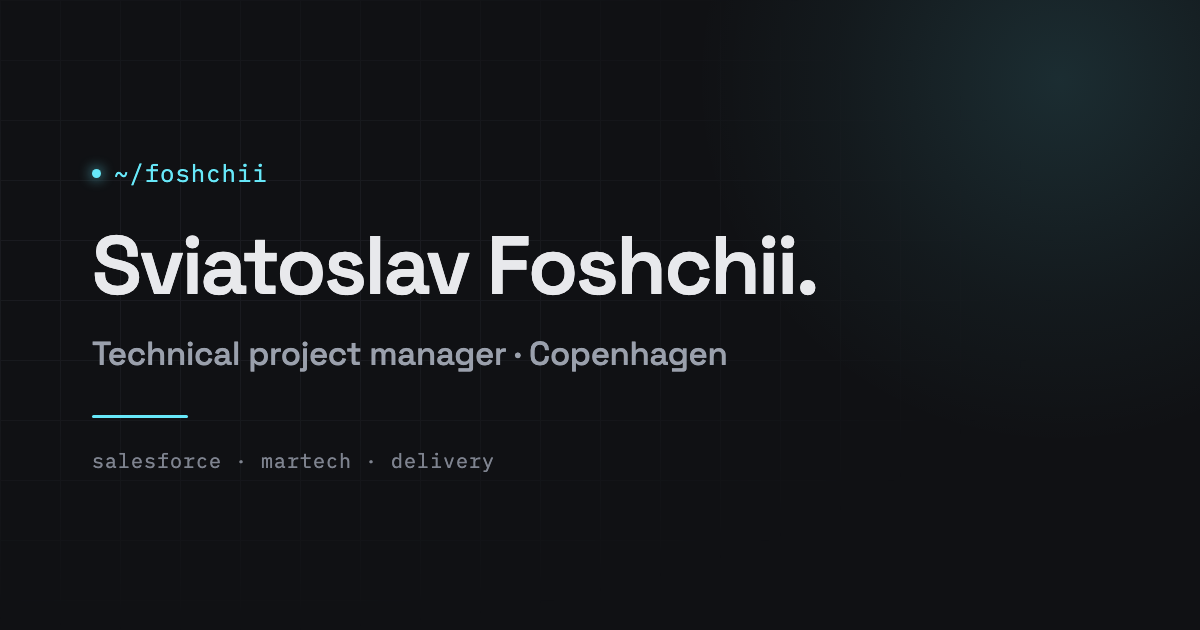
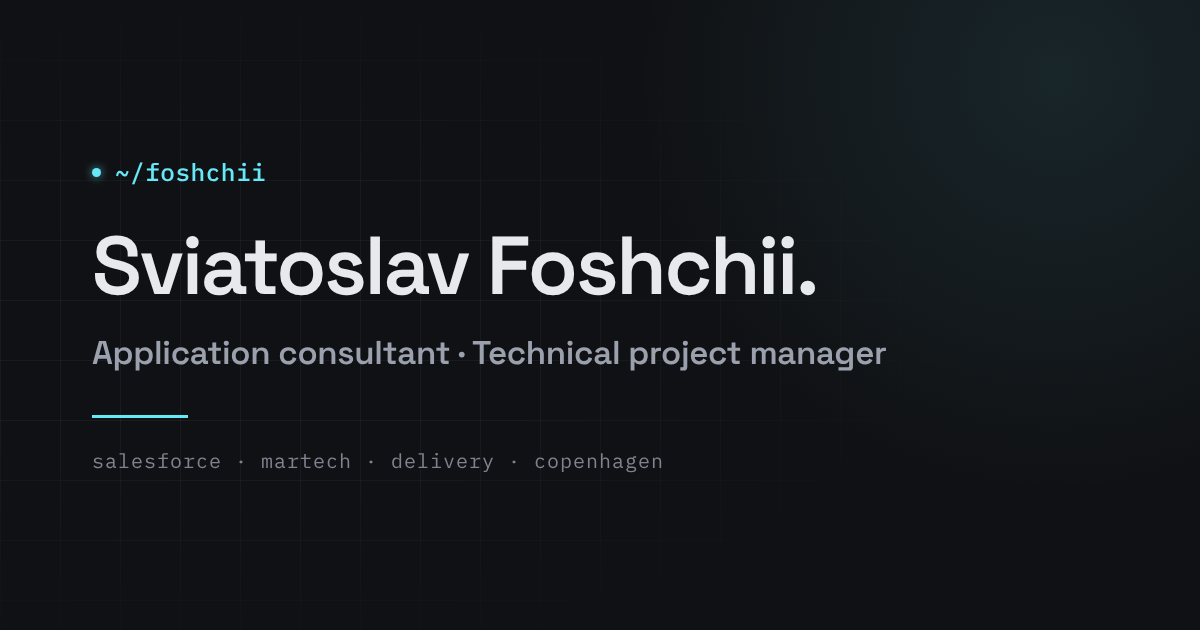
Describe Sviatoslav as application consultant and technical project manager
He moved into an application consultant role at MAP in June 2026 (already on
the experience page), but the home page title, descriptions, structured data,
llms.txt, every page's og:image:alt and the link-preview image itself still
said technical project manager only. They now carry both titles.

The home page line drops the migration tagline, which described the old job,
for a plain statement of the two roles.

The preview image is re-rendered to match the old one (same fonts, grid,
glow and positions); Copenhagen moves to the tag line, since both titles
plus the city don't fit on one line.

Claude-Session: https://claude.ai/code/session_01QYLZz5QcPj3BNn15SFWums

diff --git a/index.html b/index.html
@@ -3,20 +3,20 @@
 <head>
 <meta charset="utf-8">
 <meta name="viewport" content="width=device-width, initial-scale=1">
-<meta name="description" content="Sviatoslav Foshchii — technical project manager in Copenhagen, working in Salesforce and martech delivery.">
-<title>Sviatoslav Foshchii — Technical Project Manager</title>
+<meta name="description" content="Sviatoslav Foshchii — application consultant and technical project manager in Copenhagen, working in Salesforce and martech delivery.">
+<title>Sviatoslav Foshchii — Application Consultant &amp; Technical Project Manager</title>
 <link rel="icon" href="assets/favicon.svg">
 <link rel="canonical" href="https://foshchii.com/">
 <link rel="alternate" type="application/rss+xml" title="Writing — Sviatoslav Foshchii" href="feed.xml">
 <meta property="og:url" content="https://foshchii.com/">
 <meta property="og:type" content="website">
 <meta property="og:site_name" content="Sviatoslav Foshchii">
-<meta property="og:title" content="Sviatoslav Foshchii — Technical Project Manager">
-<meta property="og:description" content="Sviatoslav Foshchii — technical project manager in Copenhagen, working in Salesforce and martech delivery.">
+<meta property="og:title" content="Sviatoslav Foshchii — Application Consultant &amp; Technical Project Manager">
+<meta property="og:description" content="Sviatoslav Foshchii — application consultant and technical project manager in Copenhagen, working in Salesforce and martech delivery.">
 <meta property="og:image" content="https://foshchii.com/assets/og-image.png">
 <meta property="og:image:width" content="1200">
 <meta property="og:image:height" content="630">
-<meta property="og:image:alt" content="Sviatoslav Foshchii — technical project manager, Copenhagen">
+<meta property="og:image:alt" content="Sviatoslav Foshchii — application consultant and technical project manager, Copenhagen">
 <meta name="twitter:card" content="summary_large_image">
 <style>html,body{background:#101114}@view-transition{navigation:auto}::view-transition-old(root),::view-transition-new(root){animation-duration:.12s}@media (prefers-reduced-motion:reduce){::view-transition-old(root),::view-transition-new(root){animation:none}}</style>
 <script>try{if(sessionStorage.getItem('om-warp-in')){var c=document.createElement('div');c.id='om-warp-cover';c.style.cssText='position:fixed;inset:0;z-index:2147483646;background:#101114;pointer-events:none';(document.body||document.documentElement).appendChild(c);}}catch(e){}</script>
@@ -35,7 +35,10 @@
   "familyName": "Foshchii",
   "url": "https://foshchii.com/",
   "image": "https://foshchii.com/assets/og-image.png",
-  "jobTitle": "Technical Project Manager",
+  "jobTitle": [
+    "Application Consultant",
+    "Technical Project Manager"
+  ],
   "email": "mailto:sviatoslav@foshchii.com",
   "address": {
     "@type": "PostalAddress",
@@ -121,7 +124,7 @@
     <div style="position:relative; max-width:560px">
       <div style="font:400 13px 'IBM Plex Mono',monospace; letter-spacing:0.03em; color:#7E838F; margin-bottom:32px; animation:om-rise .6s ease-out both">// copenhagen, denmark</div>
       <h1 style="margin:0; font:500 52px/1.18 'Space Grotesk',sans-serif; letter-spacing:-0.025em; animation:om-rise .6s ease-out .08s both">Sviatoslav Foshchii.<span style="color:#67E8F9; animation:om-blink 1.1s steps(1) infinite">_</span></h1>
-      <p style="margin:22px 0 0; font:400 17.5px/1.6 'Instrument Sans',sans-serif; color:#9AA0AC; animation:om-rise .6s ease-out .12s both">Technical project manager working in Salesforce Marketing Cloud, Adobe Campaign and martech delivery — running platform migrations without breaking the marketing that runs on them.</p>
+      <p style="margin:22px 0 0; font:400 17.5px/1.6 'Instrument Sans',sans-serif; color:#9AA0AC; animation:om-rise .6s ease-out .12s both">Application consultant and technical project manager, working in Salesforce and martech delivery.</p>
       <div style="margin-top:30px; display:flex; gap:24px; flex-wrap:wrap; font:400 13px 'IBM Plex Mono',monospace; letter-spacing:0.03em; animation:om-rise .6s ease-out .16s both">
         <a data-warp="streaks" href="about.html" style="color:#9AA0AC; text-decoration:none; cursor:pointer; border-bottom:1px solid rgba(154,160,172,0.28); padding-bottom:2px; transition:all .25s" style-hover="color:#67E8F9; border-color:rgba(103,232,249,0.5)">the story</a>
         <a data-warp="zoom" href="experience.html" style="color:#9AA0AC; text-decoration:none; cursor:pointer; border-bottom:1px solid rgba(154,160,172,0.28); padding-bottom:2px; transition:all .25s" style-hover="color:#67E8F9; border-color:rgba(103,232,249,0.5)">my work</a>

diff --git a/about.html b/about.html
@@ -16,7 +16,7 @@
 <meta property="og:image" content="https://foshchii.com/assets/og-image.png">
 <meta property="og:image:width" content="1200">
 <meta property="og:image:height" content="630">
-<meta property="og:image:alt" content="Sviatoslav Foshchii — technical project manager, Copenhagen">
+<meta property="og:image:alt" content="Sviatoslav Foshchii — application consultant and technical project manager, Copenhagen">
 <meta name="twitter:card" content="summary_large_image">
 <style>html,body{background:#101114}@view-transition{navigation:auto}::view-transition-old(root),::view-transition-new(root){animation-duration:.12s}@media (prefers-reduced-motion:reduce){::view-transition-old(root),::view-transition-new(root){animation:none}}</style>
 <script>try{if(sessionStorage.getItem('om-warp-in')){var c=document.createElement('div');c.id='om-warp-cover';c.style.cssText='position:fixed;inset:0;z-index:2147483646;background:#101114;pointer-events:none';(document.body||document.documentElement).appendChild(c);}}catch(e){}</script>

diff --git a/contact.html b/contact.html
@@ -16,7 +16,7 @@
 <meta property="og:image" content="https://foshchii.com/assets/og-image.png">
 <meta property="og:image:width" content="1200">
 <meta property="og:image:height" content="630">
-<meta property="og:image:alt" content="Sviatoslav Foshchii — technical project manager, Copenhagen">
+<meta property="og:image:alt" content="Sviatoslav Foshchii — application consultant and technical project manager, Copenhagen">
 <meta name="twitter:card" content="summary_large_image">
 <style>html,body{background:#101114}@view-transition{navigation:auto}::view-transition-old(root),::view-transition-new(root){animation-duration:.12s}@media (prefers-reduced-motion:reduce){::view-transition-old(root),::view-transition-new(root){animation:none}}</style>
 <script>try{if(sessionStorage.getItem('om-warp-in')){var c=document.createElement('div');c.id='om-warp-cover';c.style.cssText='position:fixed;inset:0;z-index:2147483646;background:#101114;pointer-events:none';(document.body||document.documentElement).appendChild(c);}}catch(e){}</script>

diff --git a/education.html b/education.html
@@ -16,7 +16,7 @@
 <meta property="og:image" content="https://foshchii.com/assets/og-image.png">
 <meta property="og:image:width" content="1200">
 <meta property="og:image:height" content="630">
-<meta property="og:image:alt" content="Sviatoslav Foshchii — technical project manager, Copenhagen">
+<meta property="og:image:alt" content="Sviatoslav Foshchii — application consultant and technical project manager, Copenhagen">
 <meta name="twitter:card" content="summary_large_image">
 <style>html,body{background:#101114}@view-transition{navigation:auto}::view-transition-old(root),::view-transition-new(root){animation-duration:.12s}@media (prefers-reduced-motion:reduce){::view-transition-old(root),::view-transition-new(root){animation:none}}</style>
 <script>try{if(sessionStorage.getItem('om-warp-in')){var c=document.createElement('div');c.id='om-warp-cover';c.style.cssText='position:fixed;inset:0;z-index:2147483646;background:#101114;pointer-events:none';(document.body||document.documentElement).appendChild(c);}}catch(e){}</script>

diff --git a/experience.html b/experience.html
@@ -16,7 +16,7 @@
 <meta property="og:image" content="https://foshchii.com/assets/og-image.png">
 <meta property="og:image:width" content="1200">
 <meta property="og:image:height" content="630">
-<meta property="og:image:alt" content="Sviatoslav Foshchii — technical project manager, Copenhagen">
+<meta property="og:image:alt" content="Sviatoslav Foshchii — application consultant and technical project manager, Copenhagen">
 <meta name="twitter:card" content="summary_large_image">
 <style>html,body{background:#101114}@view-transition{navigation:auto}::view-transition-old(root),::view-transition-new(root){animation-duration:.12s}@media (prefers-reduced-motion:reduce){::view-transition-old(root),::view-transition-new(root){animation:none}}</style>
 <script>try{if(sessionStorage.getItem('om-warp-in')){var c=document.createElement('div');c.id='om-warp-cover';c.style.cssText='position:fixed;inset:0;z-index:2147483646;background:#101114;pointer-events:none';(document.body||document.documentElement).appendChild(c);}}catch(e){}</script>

diff --git a/writing-ai-delivery-partner.html b/writing-ai-delivery-partner.html
@@ -16,7 +16,7 @@
 <meta property="og:image" content="https://foshchii.com/assets/og-image.png">
 <meta property="og:image:width" content="1200">
 <meta property="og:image:height" content="630">
-<meta property="og:image:alt" content="Sviatoslav Foshchii — technical project manager, Copenhagen">
+<meta property="og:image:alt" content="Sviatoslav Foshchii — application consultant and technical project manager, Copenhagen">
 <meta name="twitter:card" content="summary_large_image">
 <style>html,body{background:#101114}@view-transition{navigation:auto}::view-transition-old(root),::view-transition-new(root){animation-duration:.12s}@media (prefers-reduced-motion:reduce){::view-transition-old(root),::view-transition-new(root){animation:none}}</style>
 <script>try{if(sessionStorage.getItem('om-warp-in')){var c=document.createElement('div');c.id='om-warp-cover';c.style.cssText='position:fixed;inset:0;z-index:2147483646;background:#101114;pointer-events:none';(document.body||document.documentElement).appendChild(c);}}catch(e){}</script>

diff --git a/writing-consent-records.html b/writing-consent-records.html
@@ -16,7 +16,7 @@
 <meta property="og:image" content="https://foshchii.com/assets/og-image.png">
 <meta property="og:image:width" content="1200">
 <meta property="og:image:height" content="630">
-<meta property="og:image:alt" content="Sviatoslav Foshchii — technical project manager, Copenhagen">
+<meta property="og:image:alt" content="Sviatoslav Foshchii — application consultant and technical project manager, Copenhagen">
 <meta name="twitter:card" content="summary_large_image">
 <style>html,body{background:#101114}@view-transition{navigation:auto}::view-transition-old(root),::view-transition-new(root){animation-duration:.12s}@media (prefers-reduced-motion:reduce){::view-transition-old(root),::view-transition-new(root){animation:none}}</style>
 <script>try{if(sessionStorage.getItem('om-warp-in')){var c=document.createElement('div');c.id='om-warp-cover';c.style.cssText='position:fixed;inset:0;z-index:2147483646;background:#101114;pointer-events:none';(document.body||document.documentElement).appendChild(c);}}catch(e){}</script>

diff --git a/writing-data-model.html b/writing-data-model.html
@@ -16,7 +16,7 @@
 <meta property="og:image" content="https://foshchii.com/assets/og-image.png">
 <meta property="og:image:width" content="1200">
 <meta property="og:image:height" content="630">
-<meta property="og:image:alt" content="Sviatoslav Foshchii — technical project manager, Copenhagen">
+<meta property="og:image:alt" content="Sviatoslav Foshchii — application consultant and technical project manager, Copenhagen">
 <meta name="twitter:card" content="summary_large_image">
 <style>html,body{background:#101114}@view-transition{navigation:auto}::view-transition-old(root),::view-transition-new(root){animation-duration:.12s}@media (prefers-reduced-motion:reduce){::view-transition-old(root),::view-transition-new(root){animation:none}}</style>
 <script>try{if(sessionStorage.getItem('om-warp-in')){var c=document.createElement('div');c.id='om-warp-cover';c.style.cssText='position:fixed;inset:0;z-index:2147483646;background:#101114;pointer-events:none';(document.body||document.documentElement).appendChild(c);}}catch(e){}</script>

diff --git a/writing-email-deliverability.html b/writing-email-deliverability.html
@@ -16,7 +16,7 @@
 <meta property="og:image" content="https://foshchii.com/assets/og-image.png">
 <meta property="og:image:width" content="1200">
 <meta property="og:image:height" content="630">
-<meta property="og:image:alt" content="Sviatoslav Foshchii — technical project manager, Copenhagen">
+<meta property="og:image:alt" content="Sviatoslav Foshchii — application consultant and technical project manager, Copenhagen">
 <meta name="twitter:card" content="summary_large_image">
 <style>html,body{background:#101114}@view-transition{navigation:auto}::view-transition-old(root),::view-transition-new(root){animation-duration:.12s}@media (prefers-reduced-motion:reduce){::view-transition-old(root),::view-transition-new(root){animation:none}}</style>
 <script>try{if(sessionStorage.getItem('om-warp-in')){var c=document.createElement('div');c.id='om-warp-cover';c.style.cssText='position:fixed;inset:0;z-index:2147483646;background:#101114;pointer-events:none';(document.body||document.documentElement).appendChild(c);}}catch(e){}</script>

diff --git a/writing-like-for-like.html b/writing-like-for-like.html
@@ -16,7 +16,7 @@
 <meta property="og:image" content="https://foshchii.com/assets/og-image.png">
 <meta property="og:image:width" content="1200">
 <meta property="og:image:height" content="630">
-<meta property="og:image:alt" content="Sviatoslav Foshchii — technical project manager, Copenhagen">
+<meta property="og:image:alt" content="Sviatoslav Foshchii — application consultant and technical project manager, Copenhagen">
 <meta name="twitter:card" content="summary_large_image">
 <style>html,body{background:#101114}@view-transition{navigation:auto}::view-transition-old(root),::view-transition-new(root){animation-duration:.12s}@media (prefers-reduced-motion:reduce){::view-transition-old(root),::view-transition-new(root){animation:none}}</style>
 <script>try{if(sessionStorage.getItem('om-warp-in')){var c=document.createElement('div');c.id='om-warp-cover';c.style.cssText='position:fixed;inset:0;z-index:2147483646;background:#101114;pointer-events:none';(document.body||document.documentElement).appendChild(c);}}catch(e){}</script>

diff --git a/writing-marketing-operations.html b/writing-marketing-operations.html
@@ -16,7 +16,7 @@
 <meta property="og:image" content="https://foshchii.com/assets/og-image.png">
 <meta property="og:image:width" content="1200">
 <meta property="og:image:height" content="630">
-<meta property="og:image:alt" content="Sviatoslav Foshchii — technical project manager, Copenhagen">
+<meta property="og:image:alt" content="Sviatoslav Foshchii — application consultant and technical project manager, Copenhagen">
 <meta name="twitter:card" content="summary_large_image">
 <style>html,body{background:#101114}@view-transition{navigation:auto}::view-transition-old(root),::view-transition-new(root){animation-duration:.12s}@media (prefers-reduced-motion:reduce){::view-transition-old(root),::view-transition-new(root){animation:none}}</style>
 <script>try{if(sessionStorage.getItem('om-warp-in')){var c=document.createElement('div');c.id='om-warp-cover';c.style.cssText='position:fixed;inset:0;z-index:2147483646;background:#101114;pointer-events:none';(document.body||document.documentElement).appendChild(c);}}catch(e){}</script>

diff --git a/writing-preview-is-not-a-test.html b/writing-preview-is-not-a-test.html
@@ -16,7 +16,7 @@
 <meta property="og:image" content="https://foshchii.com/assets/og-image.png">
 <meta property="og:image:width" content="1200">
 <meta property="og:image:height" content="630">
-<meta property="og:image:alt" content="Sviatoslav Foshchii — technical project manager, Copenhagen">
+<meta property="og:image:alt" content="Sviatoslav Foshchii — application consultant and technical project manager, Copenhagen">
 <meta name="twitter:card" content="summary_large_image">
 <style>html,body{background:#101114}@view-transition{navigation:auto}::view-transition-old(root),::view-transition-new(root){animation-duration:.12s}@media (prefers-reduced-motion:reduce){::view-transition-old(root),::view-transition-new(root){animation:none}}</style>
 <script>try{if(sessionStorage.getItem('om-warp-in')){var c=document.createElement('div');c.id='om-warp-cover';c.style.cssText='position:fixed;inset:0;z-index:2147483646;background:#101114;pointer-events:none';(document.body||document.documentElement).appendChild(c);}}catch(e){}</script>
